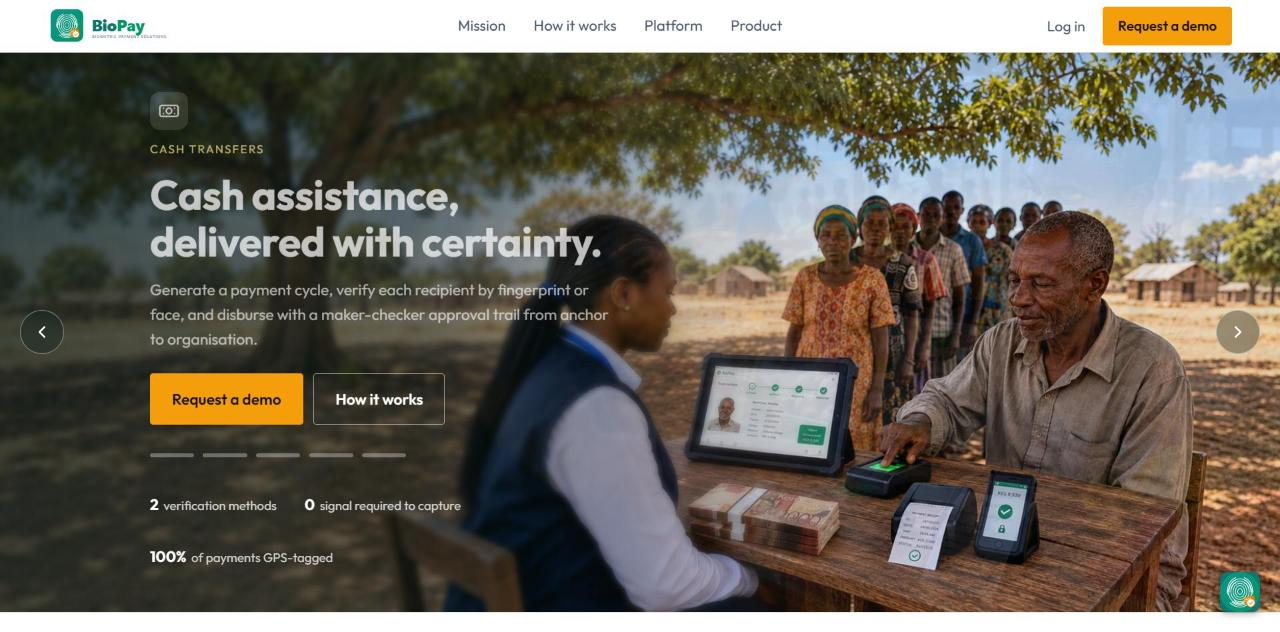
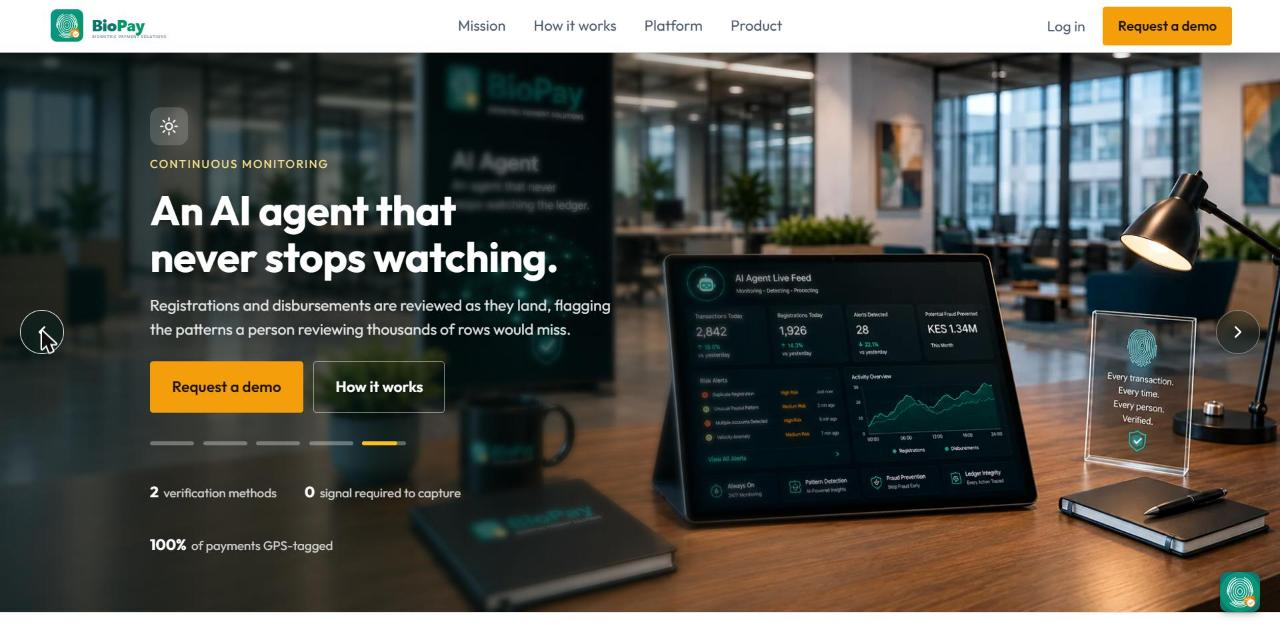
BioPay: use the AI agent slide for the screenshot

diff --git a/index.html b/index.html
@@ -301,7 +301,7 @@
                     <div>
                 <a href="https://biopay.africa" target="_blank" rel="noopener noreferrer nofollow" tabindex="-1" aria-label="Open BioPay" class="relative block bg-slate-800 -mx-5 -mt-5 sm:-mx-6 sm:-mt-6 mb-5 rounded-t-xl overflow-hidden border-b border-slate-800/80">
                     <span class="absolute top-2 right-2 z-10 inline-flex items-center gap-1.5 px-2 py-0.5 rounded-full bg-slate-950/80 border border-slate-700 text-xs font-mono font-semibold text-white"><span class="w-1.5 h-1.5 rounded-full bg-emerald-400"></span>Live</span>
-                    <img src="img/biopay.jpg" alt="Screenshot of the BioPay website" width="1280" height="632" loading="lazy" decoding="async" class="w-full h-auto group-hover:scale-[1.03] transition-transform duration-500">
+                    <img src="img/biopay.jpg?v=2" alt="Screenshot of the BioPay website" width="1280" height="632" loading="lazy" decoding="async" class="w-full h-auto group-hover:scale-[1.03] transition-transform duration-500">
                 </a>
                         <div class="flex justify-between items-start mb-4">
                             <h4 class="text-xl font-bold text-white group-hover:text-brand-500 transition-colors">BioPay</h4>
